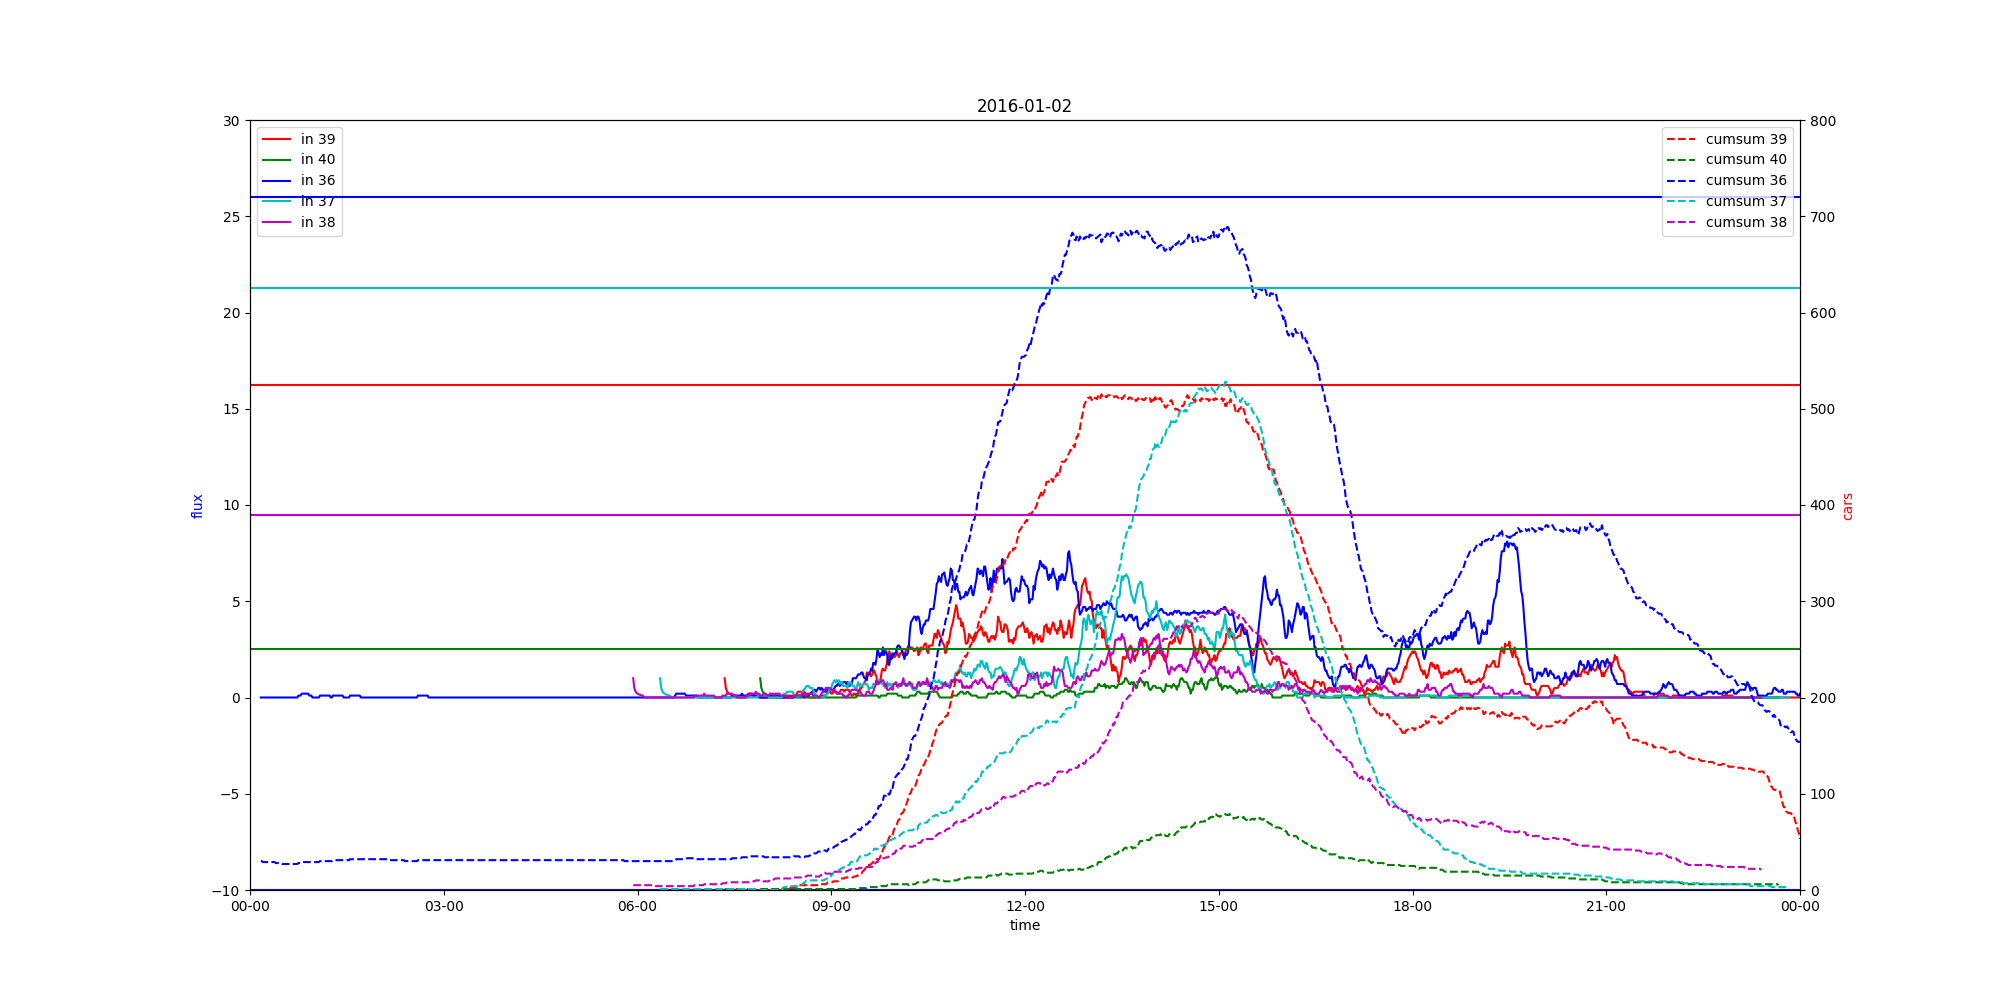
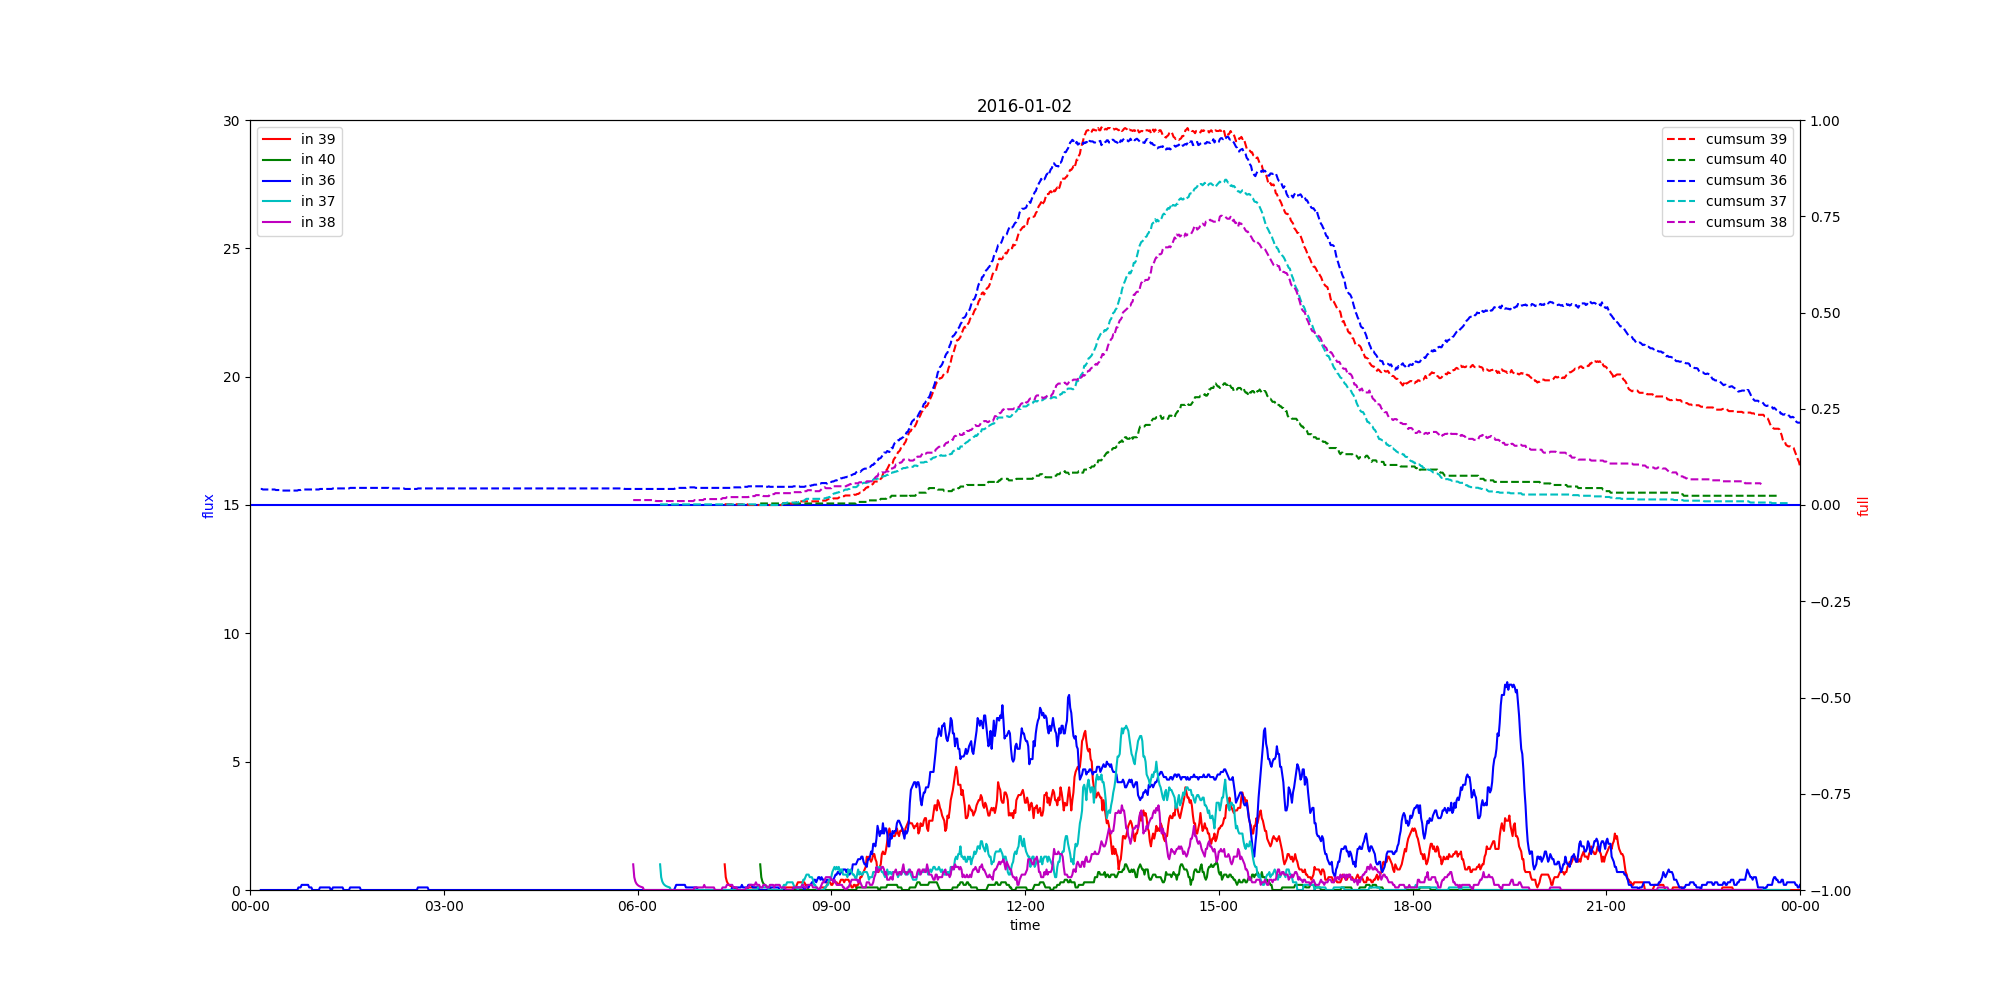
Added combined flux plots

diff --git a/Groep 5/parking/README.md b/Groep 5/parking/README.md
@@ -218,5 +218,8 @@ Normaal gesproken is een garage vol als er zoveel auto's zijn geparkeerd als dat
 
 ### Overloop naar andere garages
 
-![flux bezetting garage 36](../results/parking_garages_2016-01-02%2000:00:00_2016-01-03%2000:00:00.png)
-![flux bezetting garage 36](../results/parking_garages_2016-01-16%2000:00:00_2016-01-17%2000:00:00.png)
+![flux bezetting garages](../results/parking_garages_2016-01-02%2000:00:00_2016-01-03%2000:00:00.png)
+![flux bezetting garages](../results/parking_garages_2016-01-16%2000:00:00_2016-01-17%2000:00:00.png)
+
+### Overloop naar andere garages
+![flux bezetting garages](../results/parking_garages_2017-08-20%2000:00:00_2017-08-21%2000:00:00.png)
